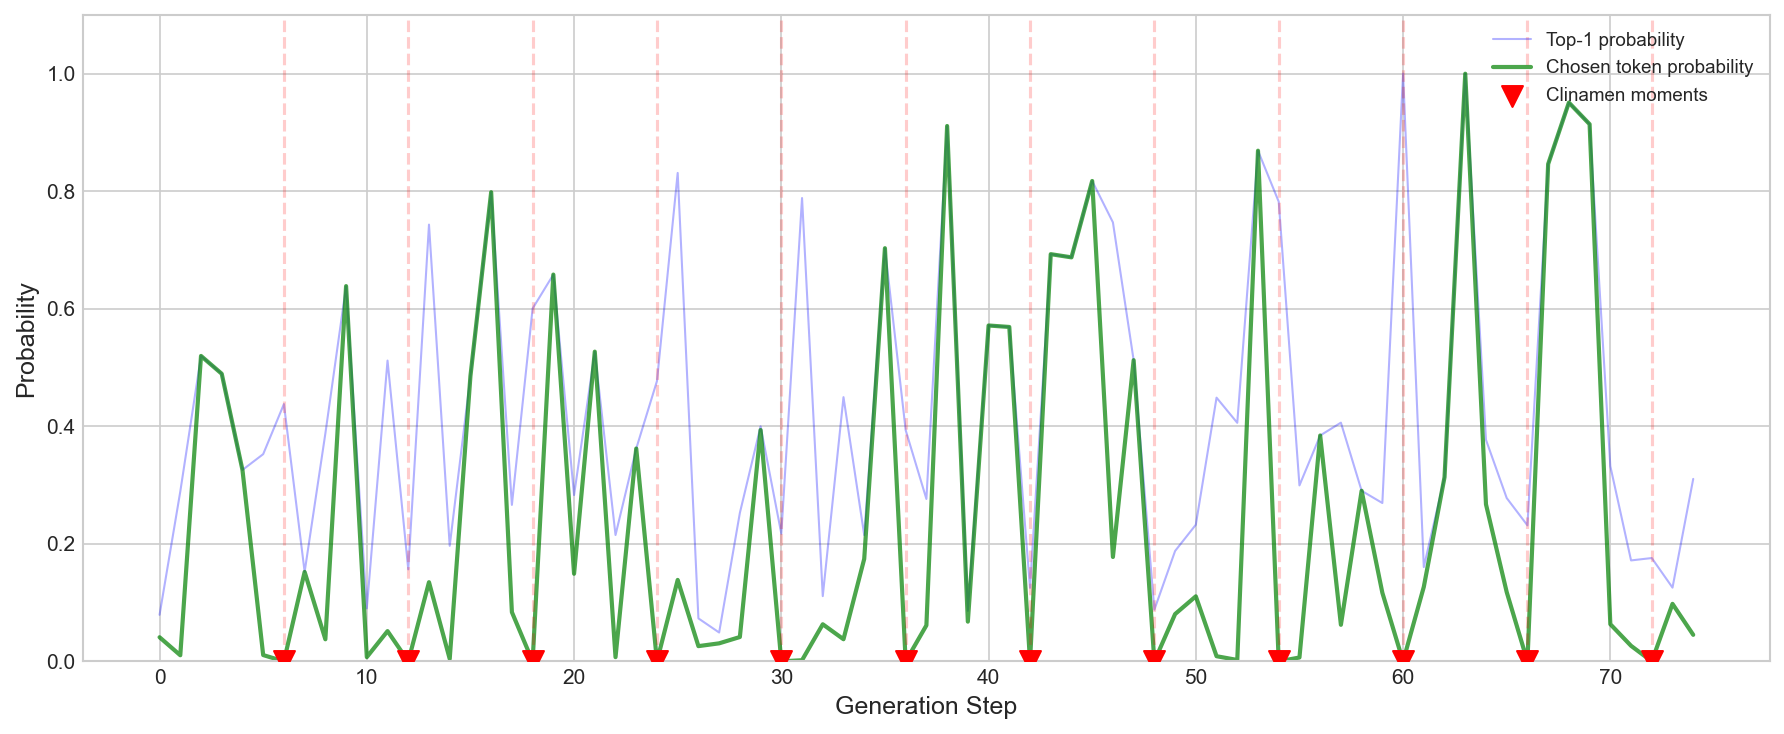
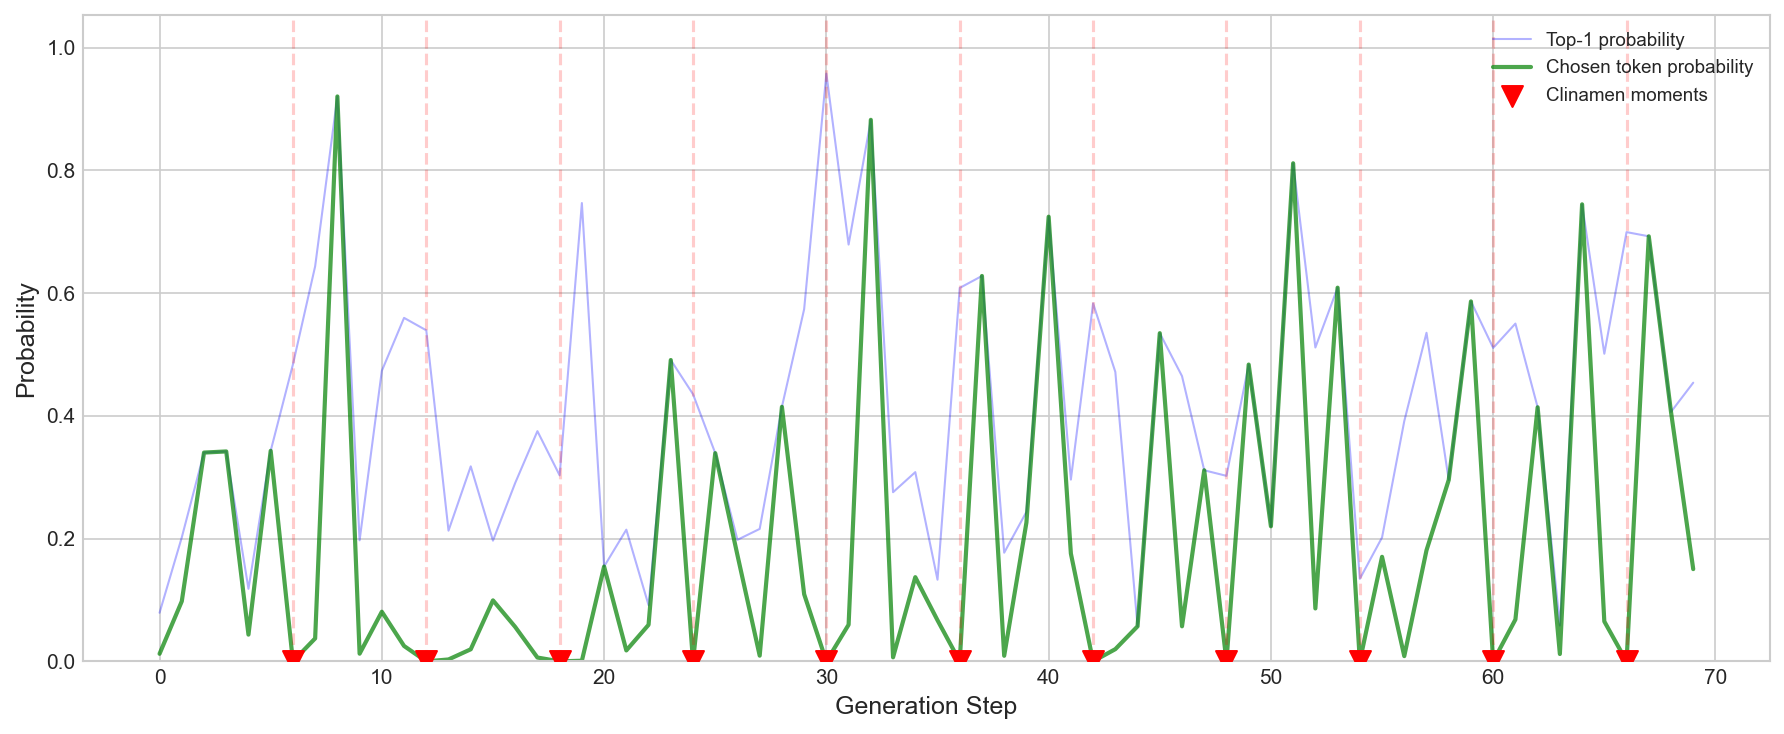
Sync clinamen text and visualizations (Fox/Spike variation)

diff --git a/posts/clinamen-algorithm.html b/posts/clinamen-algorithm.html
@@ -130,12 +130,12 @@
 
 <div style="background: #f8f9fa; border-left: 4px solid var(--color-accent); padding: var(--spacing-md); margin: var(--spacing-lg) 0; font-family: Georgia, serif;">
 <p style="margin: 0; color: #666; font-size: 0.9em;">CLINAMEN VARIATION:</p>
-<p style="margin: 0.5em 0 0 0;">"On the crowded bus. A man, about twenty-six, wearing a felt hat. His neck was curled up against a rock. <span style="color: #e74c3c; font-weight: bold;">Collapse</span>. The window shattered <span style="color: #e74c3c; font-weight: bold;">fresh</span> and cold, and the <span style="color: #e74c3c; font-weight: bold;">hour</span>-long flight to the <span style="color: #e74c3c; font-weight: bold;">Fairway</span> was interrupted. The <span style="color: #e74c3c; font-weight: bold;">forty</span>-five hour flight was <span style="color: #e74c3c; font-weight: bold;">decimated</span> in the night. <span style="color: #e74c3c; font-weight: bold;">Sit</span> back, in the dark <span style="color: #e74c3c; font-weight: bold;">pocket</span> of a small house, <span style="color: #e74c3c; font-weight: bold;">hold</span> the books and watch the <span style="color: #e74c3c; font-weight: bold;">solemn</span> lights."</p>
+<p style="margin: 0.5em 0 0 0;">"On the crowded bus. A man, about twenty-six, wearing a felt hat. His neck was bent. He was a man <span style="color: #e74c3c; font-weight: bold;">dumb</span> enough to say that if <span style="color: #e74c3c; font-weight: bold;">Fox</span> should come down on my <span style="color: #e74c3c; font-weight: bold;">blade</span> (and his sword) <span style="color: #e74c3c; font-weight: bold;">Spike</span> would have stabbed him in <span style="color: #e74c3c; font-weight: bold;">savagely</span>. Fox's sword <span style="color: #e74c3c; font-weight: bold;">spinned</span> over and over, <span style="color: #e74c3c; font-weight: bold;">became</span> so sharp that the man <span style="color: #e74c3c; font-weight: bold;">chuckled</span>."</p>
 </div>
 
-<p>The red words are the clinamen moments. The model starts with Queneau's scene and immediately swerves: the neck is "curled up against a rock," then "Collapse"—a single word like a stage direction. The bus becomes a flight, the window shatters "fresh and cold," and we end in "the dark pocket of a small house" watching "solemn lights."</p>
+<p>The red words are the clinamen moments. The model starts with Queneau's scene—a man on a bus—and immediately swerves into something else entirely: a sword fight between characters named Fox and Spike. The mundane observation becomes a violent fantasy.</p>
 
-<p>What interests me is how the model adapts. It doesn't break. Each forced word cascades into something new: "Collapse" becomes a scene transition, "Fairway" becomes a destination, "solemn" becomes an adjective for lights that makes strange sense. The model finds a way to make the forced word fit, and in doing so produces something no one would have written deliberately.</p>
+<p>What interests me is how the model adapts. It doesn't break. Each forced word cascades into something new: "dumb" becomes a character judgment, "Fox" becomes a proper name, "blade" pulls in swords, and suddenly we're in a completely different genre. The model finds a way to make the forced word fit, and in doing so produces something no one would have written deliberately.</p>
 
 <p>Queneau would probably have found this amusing. His whole project was about showing that the same story contains infinite versions, and that constraints (write it as a sonnet, write it backwards, write it without the letter 'e') force new versions into existence. The clinamen is just another constraint: every sixth word must surprise.</p>
 
